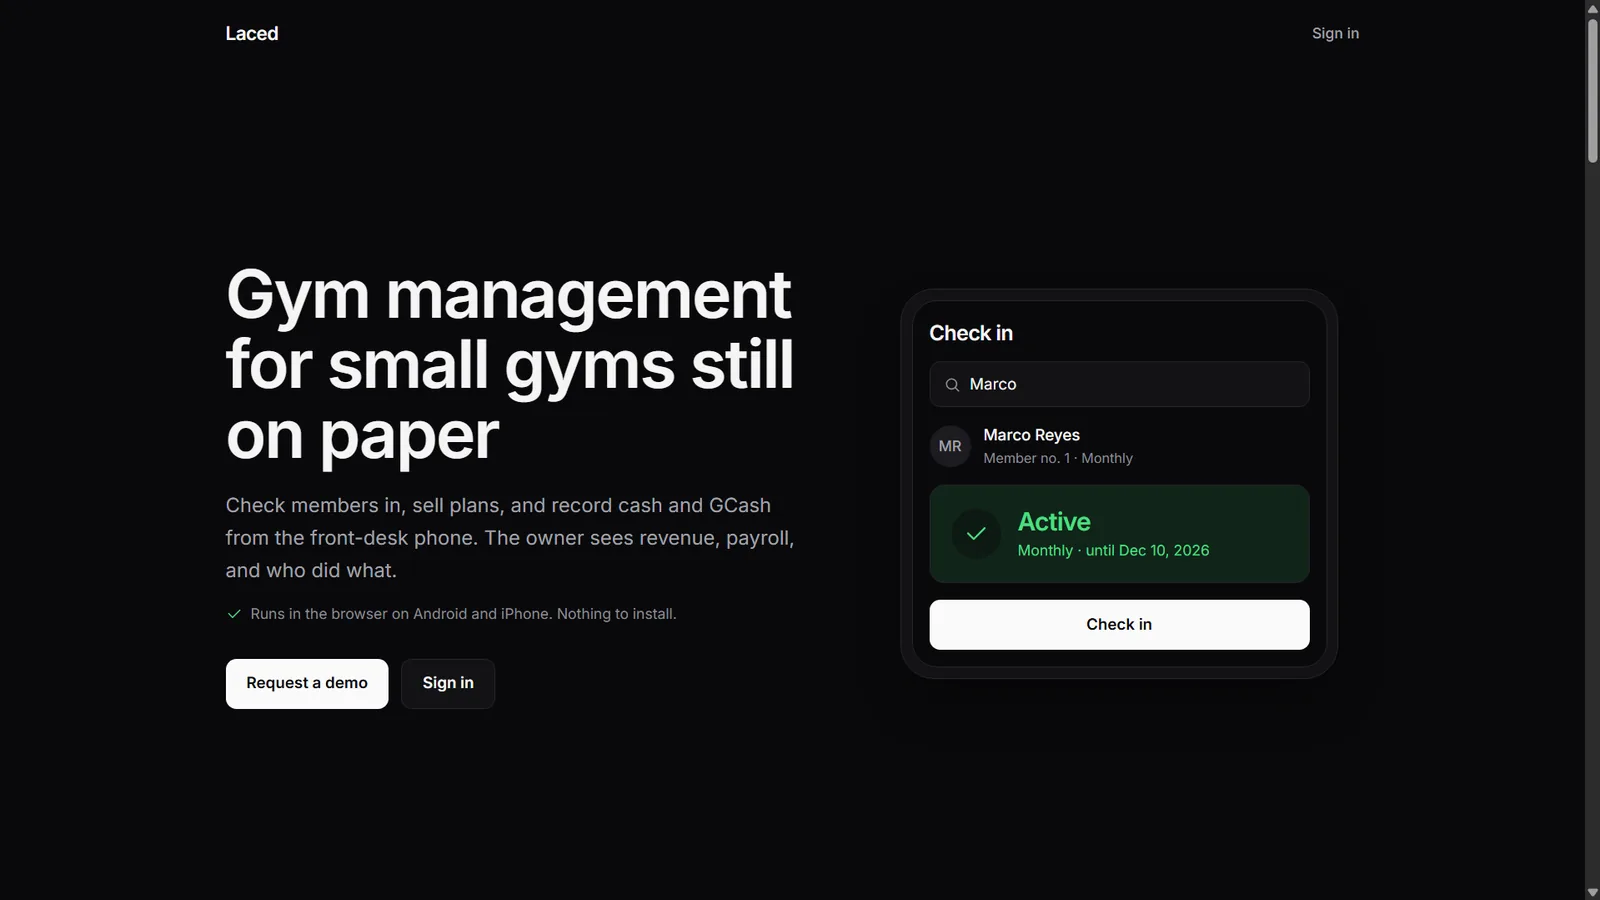
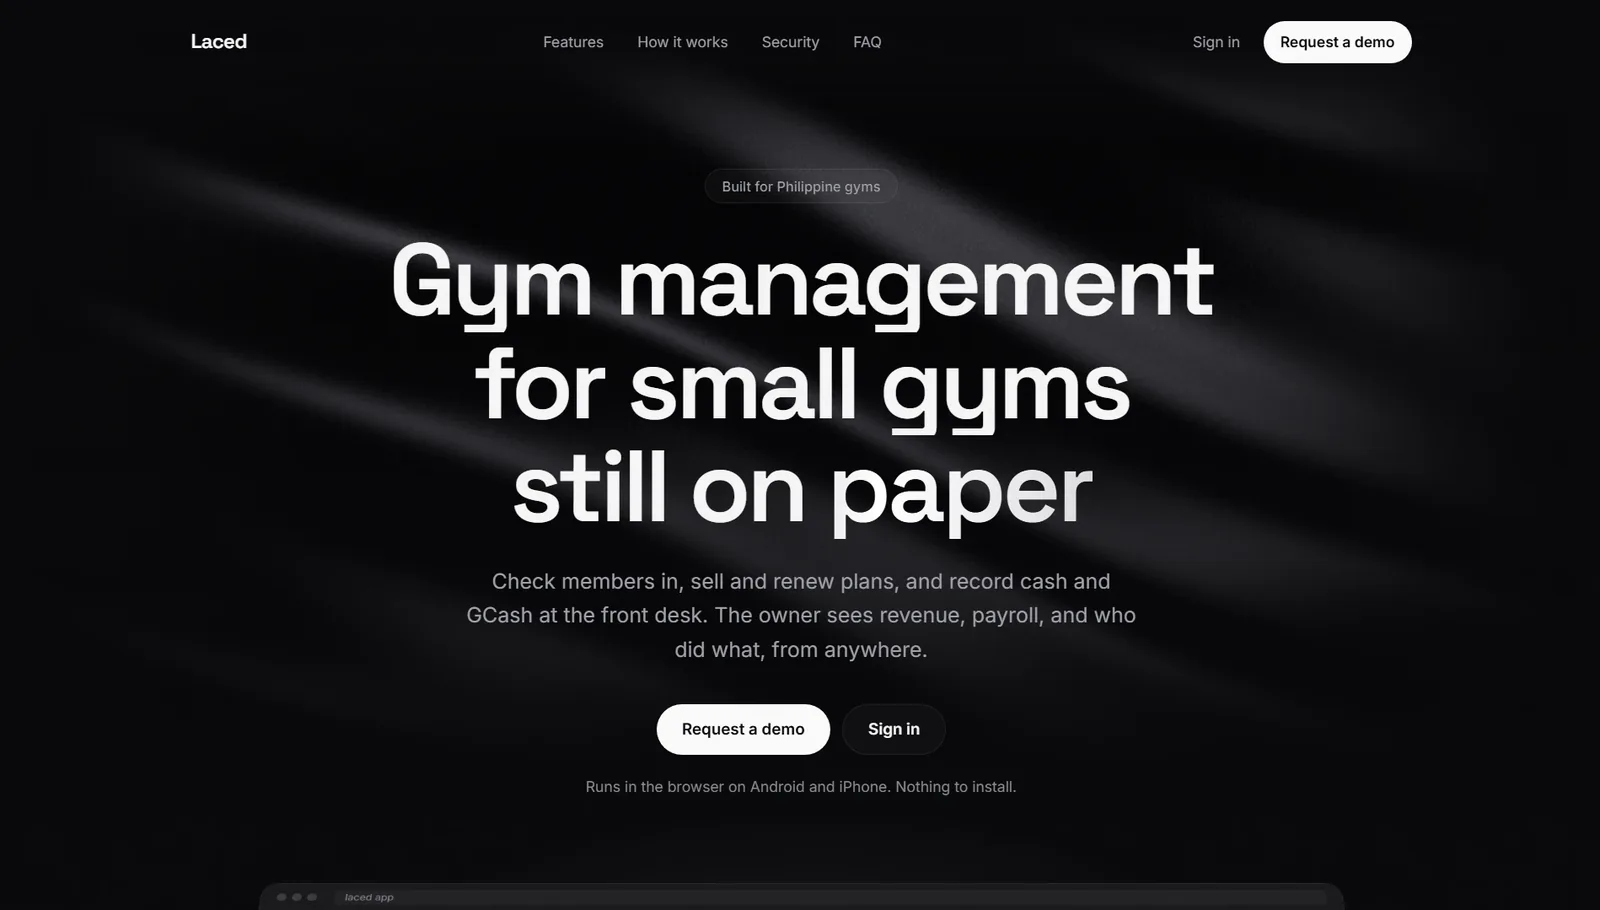
Update Laced links and screenshots, fix email address

diff --git a/js/projects.js b/js/projects.js
@@ -19,7 +19,7 @@ window.PROJECTS = [
     status: 'Live prototype',
     featured: true,
     summary: 'A phone-first gym management system for small gyms that still run on paper. Front-desk staff check members in, sell and renew plans, and record cash and GCash payments. The owner gets revenue reports, payroll and an activity log.',
-    note: 'Deployed and working, but no real members use it yet. A trial run with the gym is planned. Screenshots show test data.',
+    note: 'Deployed and working, but no real members use it yet. A trial run with the gym is planned. Screenshots show demo data.',
     problem: 'A local gym runs everything on paper. Members sign a handwritten logbook, memberships are paper cards whose expiry is easy to miss (so expired members walk in), and there is no single record of cash and GCash payments, so the owner cannot see revenue or growth.',
     solution: 'A web app that runs on any phone. Staff search a member and see a large Active, Expiring or Expired status, and expired members get a Renew button instead of Check in. Every payment is tied to the staff member who took it, prices come from the server so they cannot be changed at the desk, mistakes are voided with a reason and never deleted, and the day closes with a blind cash count. The owner gets revenue reports, payroll with SSS, PhilHealth, Pag-IBIG and withholding tax worked out, an activity log and CSV backups.',
     role: 'Full stack, solo project: design, database, front end, security, testing and deployment',
@@ -28,14 +28,14 @@ window.PROJECTS = [
     ],
     stack: ['React', 'TypeScript', 'Vite', 'Tailwind CSS', 'Supabase', 'PostgreSQL', 'Vercel', 'Vitest', 'GitHub Actions'],
     images: [
-      { src: 'assets/projects/laced-1.webp', alt: 'Laced landing page: gym management for small gyms still on paper, with a member check-in card' },
-      { src: 'assets/projects/laced-2.webp', alt: 'Laced owner dashboard with money collected today, check-ins and revenue trends (test data)' },
-      { src: 'assets/projects/laced-3.webp', alt: 'Laced check-in screen selling a day pass to a walk-in, paid with cash or GCash' },
-      { src: 'assets/projects/laced-4.webp', alt: 'Laced reports page with revenue by month and a month by month table (test data)' }
+      { src: 'assets/projects/laced-1.webp', alt: 'Laced landing page: gym management for small gyms still on paper, built for Philippine gyms' },
+      { src: 'assets/projects/laced-2.webp', alt: 'Laced owner dashboard with money collected today, check-ins, revenue trends and renewals due (demo data)' },
+      { src: 'assets/projects/laced-3.webp', alt: 'Laced: off paper in three steps, next to the phone members list showing active, expiring and expired plans (demo data)' },
+      { src: 'assets/projects/laced-4.webp', alt: 'Laced closing section: move your gym off the paper logbook, with request a demo and sign in buttons' }
     ],
     links: [
-      { label: 'Live site', url: 'https://laced-rho.vercel.app' },
-      { label: 'GitHub', url: 'https://github.com/zleww/Laced' }
+      { label: 'Live site', url: 'https://laced-lp.vercel.app' },
+      { label: 'GitHub', url: 'https://github.com/zleww/laced_lp' }
     ]
   },
   {

diff --git a/index.html b/index.html
@@ -493,11 +493,11 @@
               <span class="link-card__icon" aria-hidden="true">
                 <svg width="22" height="22" viewBox="0 0 24 24" fill="none" stroke="currentColor" stroke-width="2" stroke-linecap="round" stroke-linejoin="round"><rect x="3" y="5" width="18" height="14" rx="2"/><path d="m3 7 9 6 9-6"/></svg>
               </span>
-              <a class="link-card__main" href="mailto:dellosaezekie1@gmail.com">
+              <a class="link-card__main" href="mailto:dellosaezekiel1@gmail.com">
                 <span class="link-card__label">Email</span>
-                <span class="link-card__value">dellosaezekie1@<wbr>gmail.com</span>
+                <span class="link-card__value">dellosaezekiel1@<wbr>gmail.com</span>
               </a>
-              <button class="copy-btn" type="button" id="copy-email" data-copy="dellosaezekie1@gmail.com">Copy</button>
+              <button class="copy-btn" type="button" id="copy-email" data-copy="dellosaezekiel1@gmail.com">Copy</button>
             </li>
 
             <li class="link-card" data-reveal style="--d: 280ms">
@@ -585,7 +585,7 @@
       <div class="site-footer__col">
         <p class="site-footer__head">Contact</p>
         <ul>
-          <li><a href="mailto:dellosaezekie1@gmail.com">dellosaezekie1@gmail.com</a></li>
+          <li><a href="mailto:dellosaezekiel1@gmail.com">dellosaezekiel1@gmail.com</a></li>
           <li><a href="https://github.com/zleww" target="_blank" rel="noopener">GitHub</a></li>
           <!-- TODO: add my LinkedIn URL here
           <li><a href="" target="_blank" rel="noopener">LinkedIn</a></li>

diff --git a/js/main.js b/js/main.js
@@ -703,10 +703,10 @@
       var message = form.elements.message.value.trim();
       var subject = 'Portfolio: ' + need + ' (from ' + name + ')';
       var body = message + '\n\n- ' + name;
-      window.location.href = 'mailto:dellosaezekie1@gmail.com' +
+      window.location.href = 'mailto:dellosaezekiel1@gmail.com' +
         '?subject=' + encodeURIComponent(subject) +
         '&body=' + encodeURIComponent(body);
-      if (formStatus) formStatus.textContent = 'Opening your email app. If nothing opens, email me at dellosaezekie1@gmail.com.';
+      if (formStatus) formStatus.textContent = 'Opening your email app. If nothing opens, email me at dellosaezekiel1@gmail.com.';
     });
   }
 
